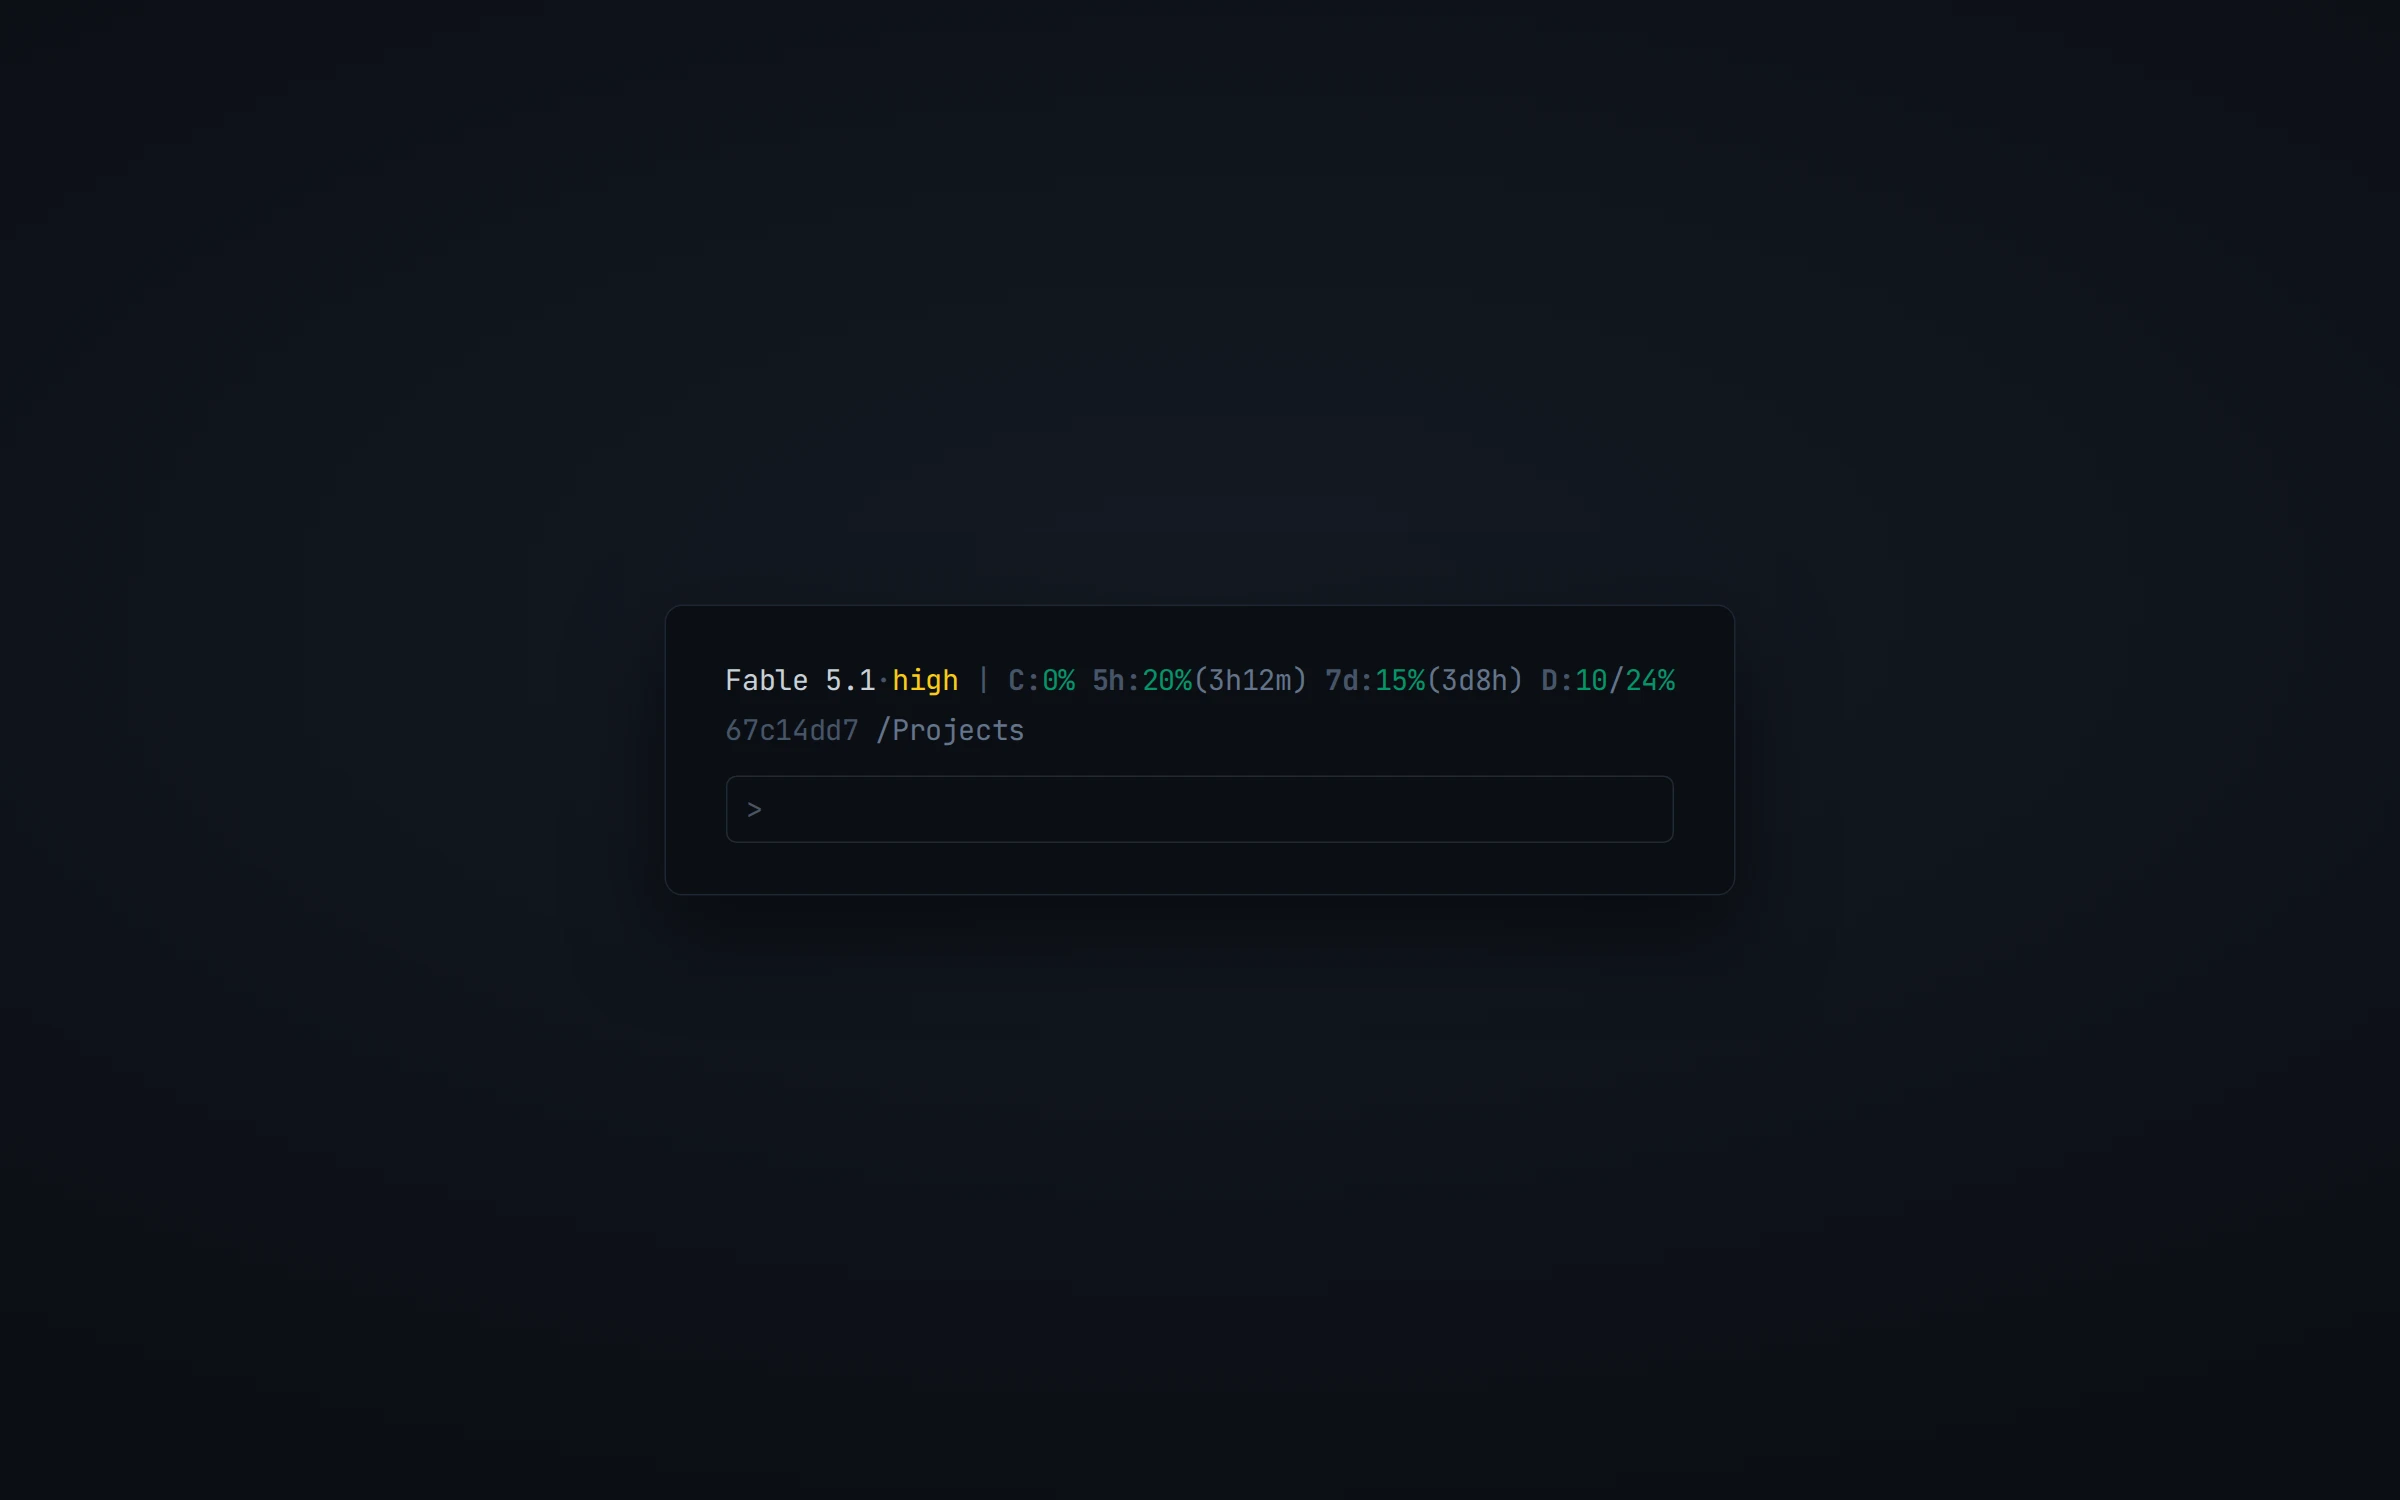
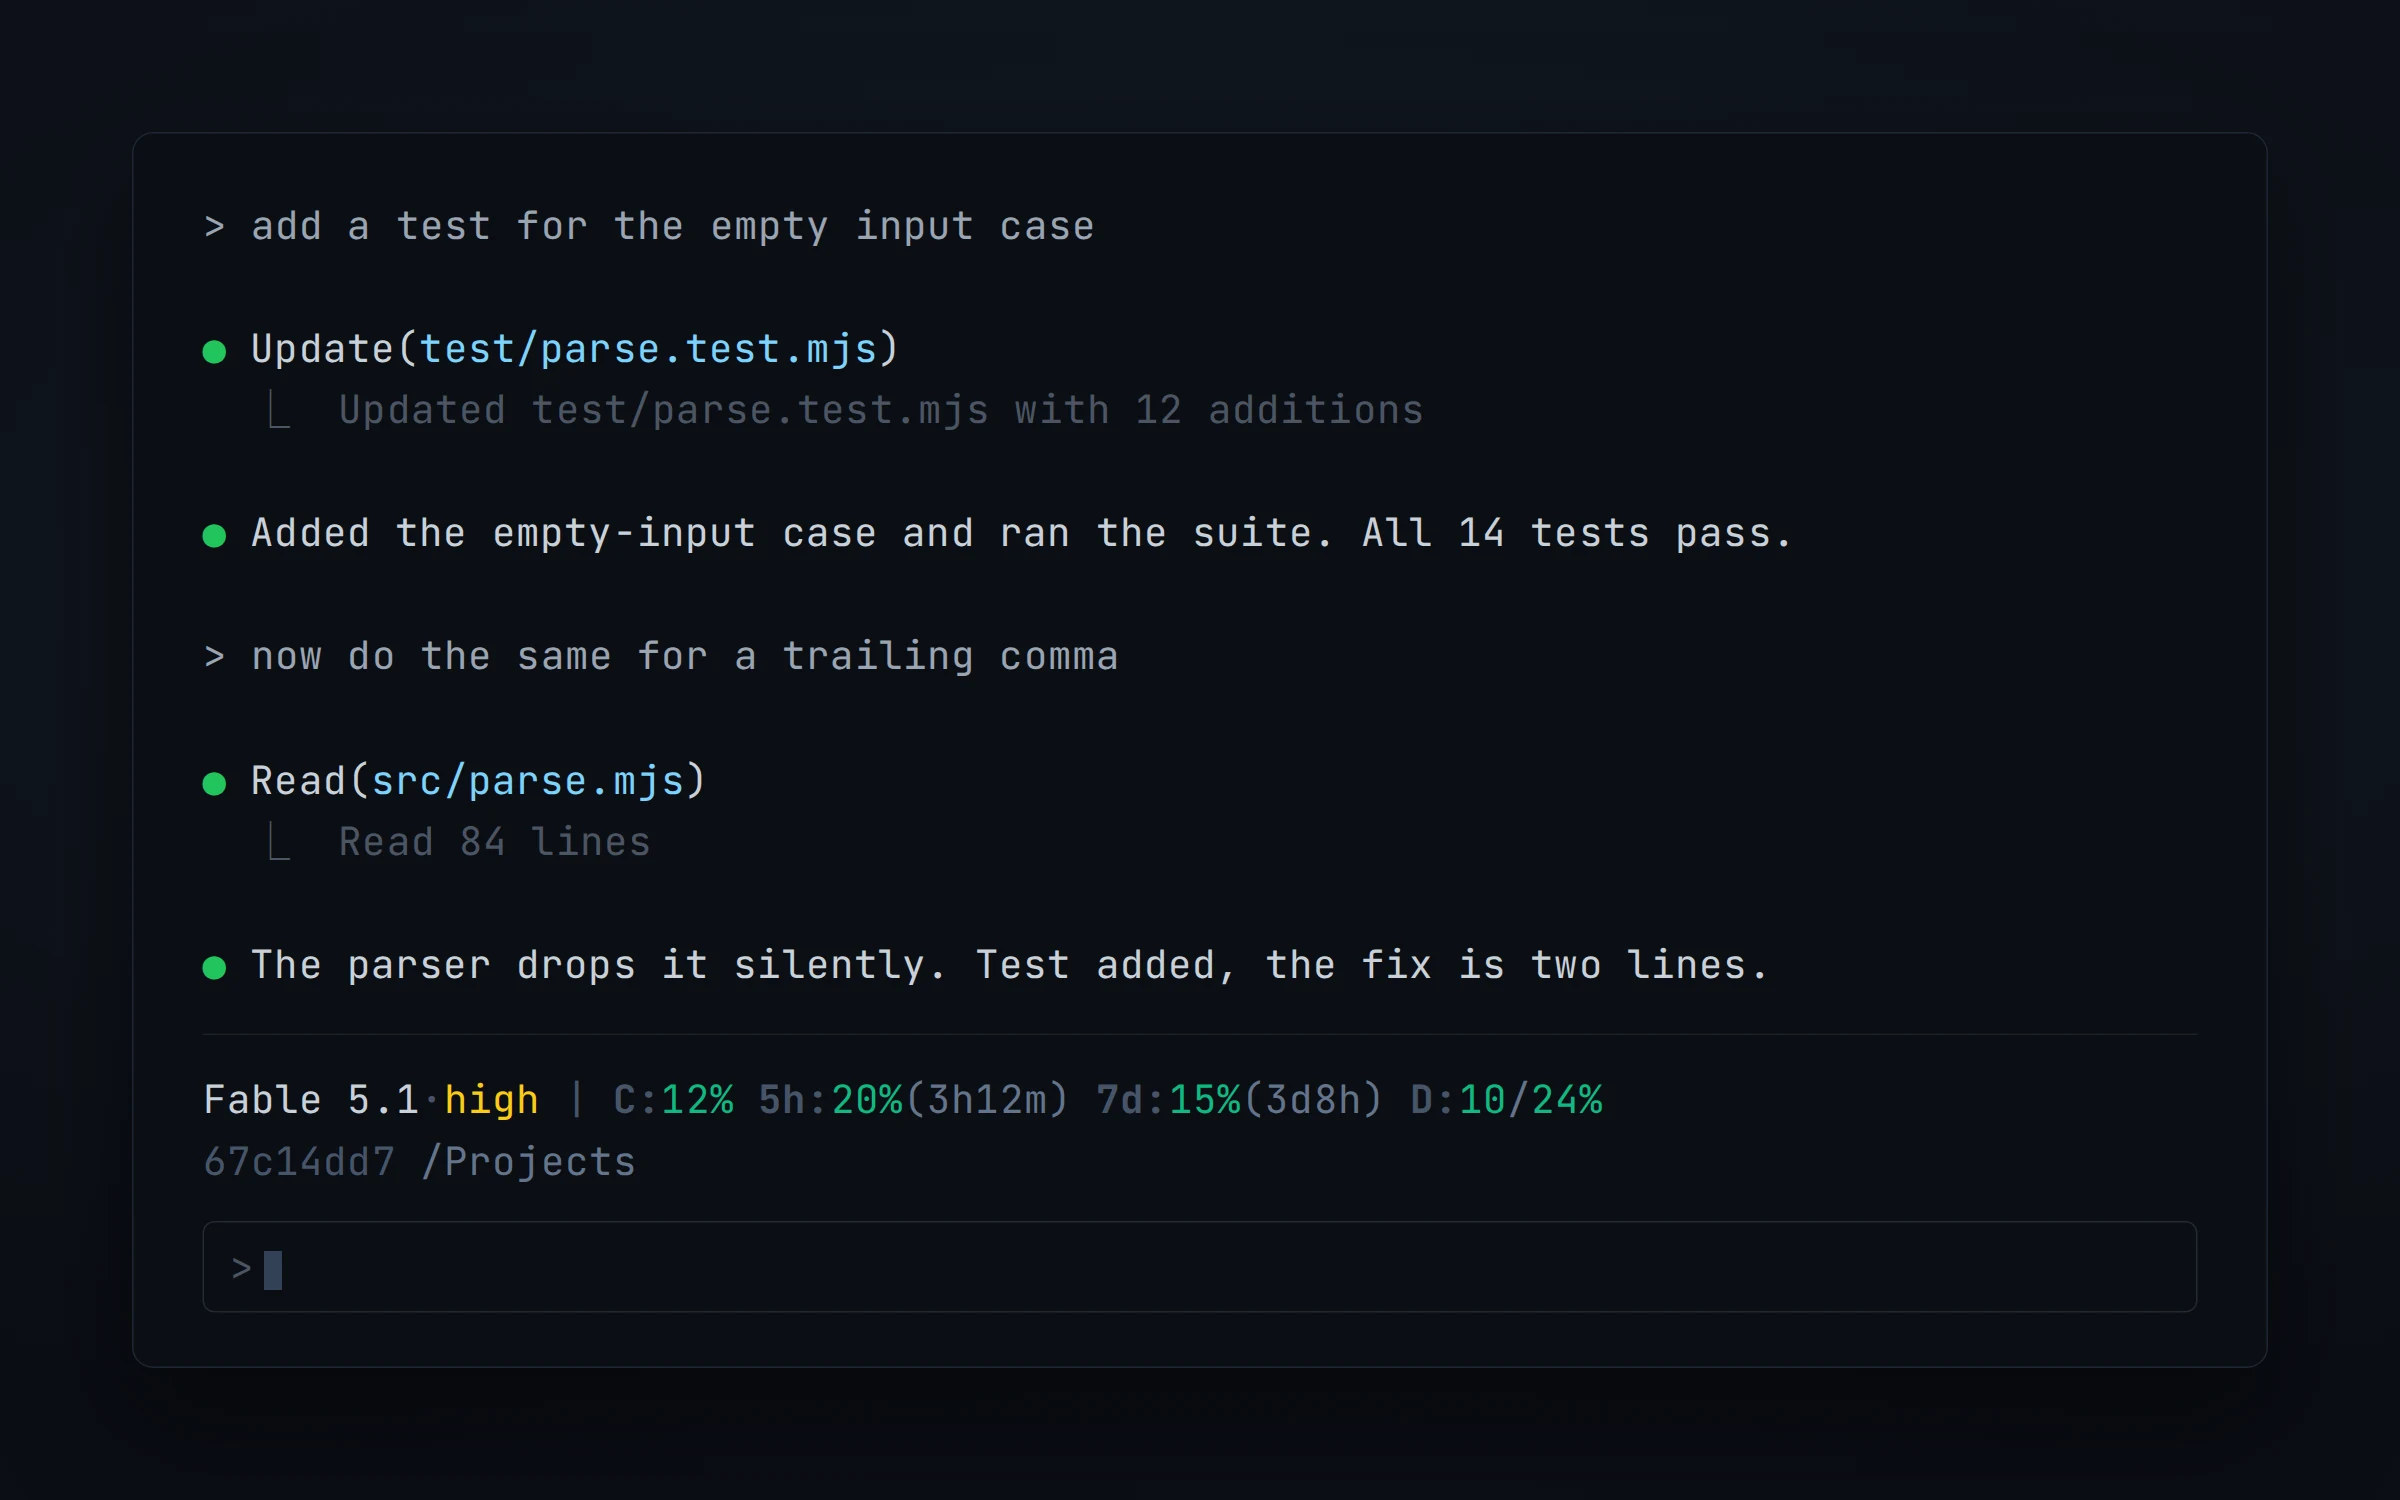
content(atwellpub): rebuild the cover and add the in-editor status line example
The cover now shows a two-turn session above the status line rather than the
bar alone, and the whole block is rendered larger so it survives the 16:9
crop the journal layout applies.

Adds a screenshot of the status line running under the prompt in the VS Code
terminal panel, as a closing example before the credits.

diff --git a/members/atwellpub/posts/how-to-always-show-claude-code-usage-in-the-terminal/index.md b/members/atwellpub/posts/how-to-always-show-claude-code-usage-in-the-terminal/index.md
@@ -87,6 +87,12 @@ Install Stefano Ginella's Claude Code status line for me, globally.
 
 The verification step is the part worth keeping. A status line that fails silently just leaves the bar empty, and it is not obvious whether the script is broken or the setting never took.
 
+## What it looks like once it is running
+
+Here is the same status line in a live session, sitting under the prompt in the VS Code terminal panel. The model and its effort level, the context window, both rate limit windows and the daily pace figure stay on screen while the work happens.
+
+![Claude Code running in the VS Code terminal panel, with the status line at the bottom reading the model, context use, the five hour and seven day rate limit windows, and the daily pace figure](./images/status-line-in-vs-code.webp)
+
 ## Credits
 
 Credit to Stefano Ginella for the script, and for writing it to run entirely offline. You can find his work on [GitHub](https://github.com/stefanoginella), and he takes on client work through [Codeable](https://www.codeable.io/developers/stefano-ginella/?ref=MzT91).
